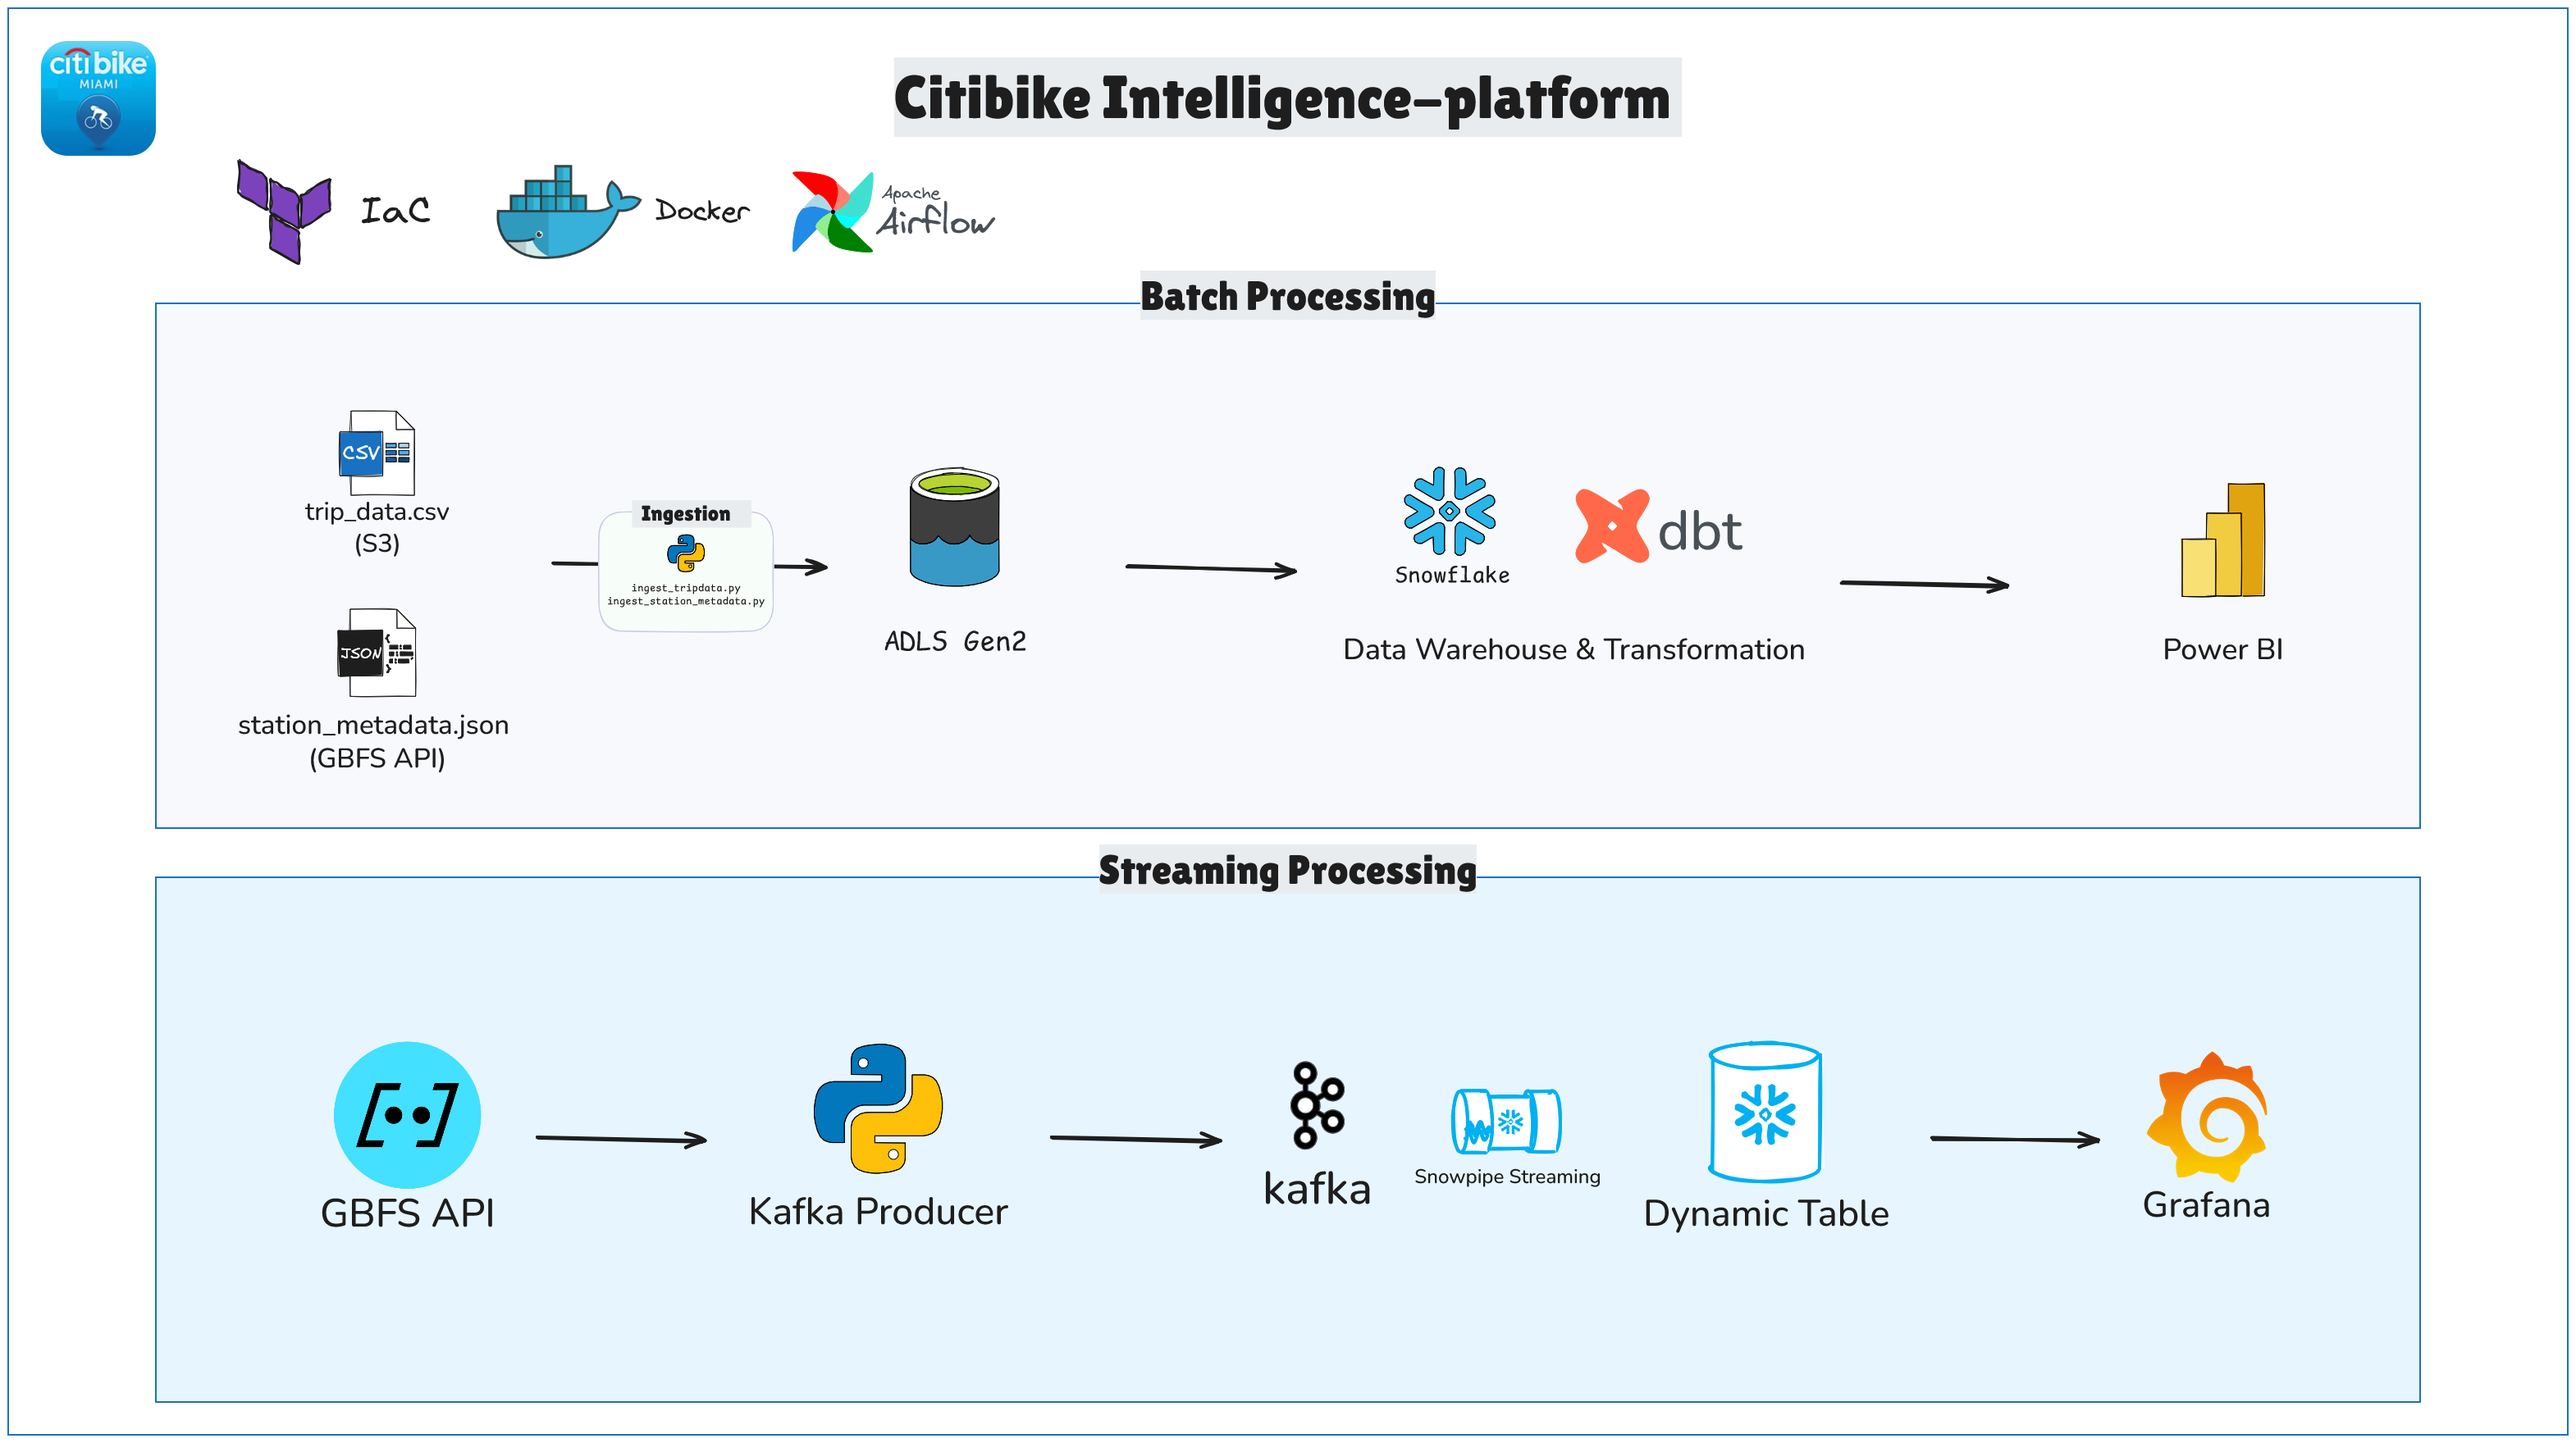
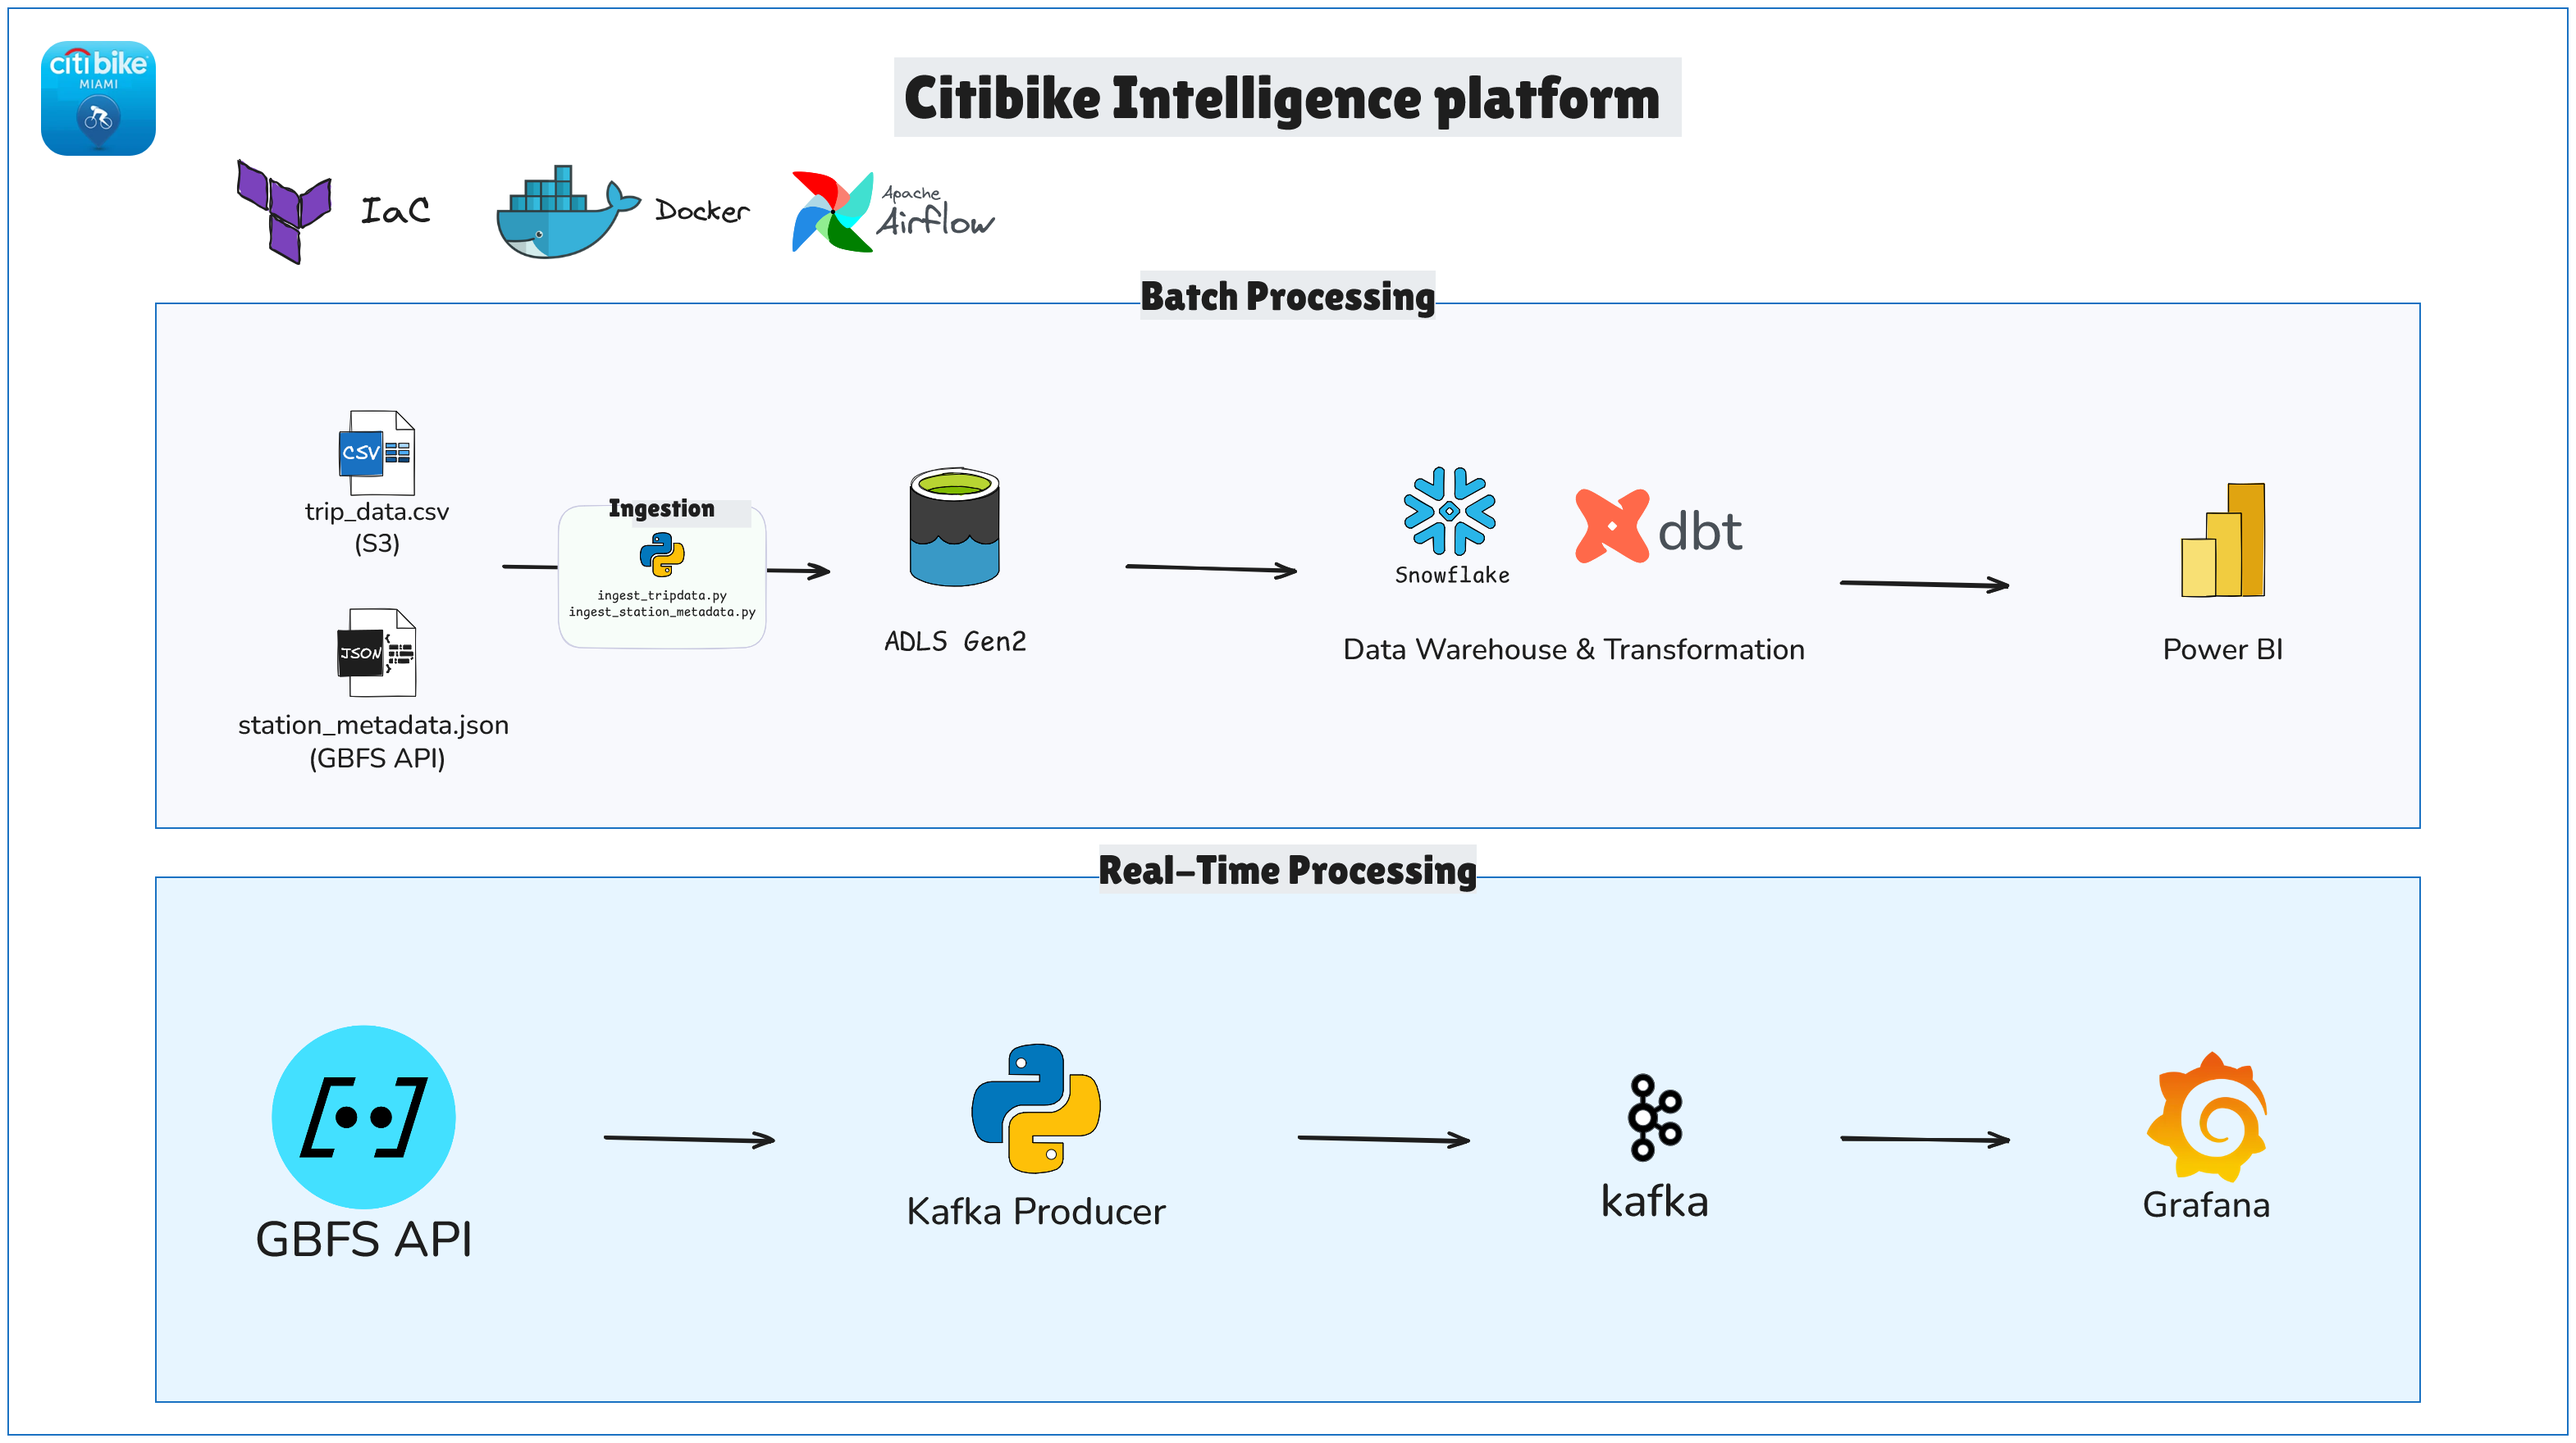
Add Dockerfile, docker-compose.yml, and producer.py for streaming data ingestion

diff --git a/streaming/producer.py b/streaming/producer.py
@@ -1,0 +1,127 @@
+import os
+import requests
+import json
+import time
+import logging
+from confluent_kafka import Producer
+from confluent_kafka.admin import AdminClient, NewTopic
+
+# --- Configuration & Logger Setup ---
+logging.basicConfig(
+    level=logging.INFO,
+    format='%(asctime)s [%(levelname)s] %(message)s',
+    datefmt='%Y-%m-%d %H:%M:%S'
+)
+logger = logging.getLogger(__name__)
+
+kafka_broker = os.getenv('KAFKA_BROKER', 'localhost:9092')
+
+# Kafka Configuration
+conf = {
+    'bootstrap.servers': kafka_broker,
+    'api.version.request': True
+}
+
+TOPIC_NAME = "citibike_status"
+STATUS_URL = "https://gbfs.citibikenyc.com/gbfs/en/station_status.json"
+INFO_URL = "https://gbfs.citibikenyc.com/gbfs/en/station_information.json"
+
+# --- Admin Client for Topic Creation/Config ---
+def ensure_compacted_topic():
+    admin_client = AdminClient(conf)
+    topic_config = {
+        'cleanup.policy': 'compact',
+        'delete.retention.ms': '100',  # Faster cleanup for records marked for deletion
+        'segment.ms': '600000'         # Roll segments every 10 mins to trigger compaction sooner
+    }
+    
+    new_topic = NewTopic(
+        TOPIC_NAME, 
+        num_partitions=1, 
+        replication_factor=1, 
+        config=topic_config
+    )
+
+    fs = admin_client.create_topics([new_topic])
+    for topic, f in fs.items():
+        try:
+            f.result()  # The result itself is None
+            logger.info(f"Topic {topic} created with cleanup.policy=compact")
+        except Exception as e:
+            if "already exists" in str(e):
+                logger.info(f"Topic {topic} already exists. Ensure cleanup.policy is set manually if needed.")
+            else:
+                logger.error(f"Failed to create topic {topic}: {e}")
+
+try:
+    ensure_compacted_topic()
+    producer = Producer(conf)
+except Exception as e:
+    logger.critical(f"Initialization failed: {e}")
+    raise
+
+def delivery_report(err, msg):
+    """ Callback for message delivery results """
+    if err is not None:
+        logger.error(f"Message delivery failed: {err}")
+    else:
+        logger.debug(f"Message delivered to {msg.topic()} [{msg.partition()}]")
+
+def fetch_data():
+    logger.info("Starting new data ingestion cycle...")
+    
+    try:
+        # Fetch Station Information (Static Data)
+        info_resp = requests.get(INFO_URL, timeout=10)
+        info_resp.raise_for_status()
+        stations_info = {s['station_id']: s for s in info_resp.json()['data']['stations']}
+        logger.info(f"Successfully fetched information for {len(stations_info)} stations.")
+
+        # Fetch Station Status (Real-time Data)
+        status_resp = requests.get(STATUS_URL, timeout=10)
+        status_resp.raise_for_status()
+        stations_status = status_resp.json()['data']['stations']
+        
+        logger.info(f"Processing real-time status for {len(stations_status)} stations.")
+
+        produced_count = 0
+        for status in stations_status:
+            s_id = status['station_id']
+            
+            if s_id in stations_info:
+                status['lat'] = stations_info[s_id]['lat']
+                status['lon'] = stations_info[s_id]['lon']
+                status['name'] = stations_info[s_id]['name']
+                
+                # Stream to Kafka with MESSAGE KEY
+                try:
+                    producer.produce(
+                        TOPIC_NAME, 
+                        key=str(s_id),  # REQUIRED FOR COMPACTION
+                        value=json.dumps(status).encode('utf-8'),
+                        callback=delivery_report
+                    )
+                    produced_count += 1
+                except BufferError:
+                    logger.warning("Local producer queue is full, waiting...")
+                    producer.poll(0.1)
+
+        producer.flush()
+        logger.info(f"Successfully streamed {produced_count} enriched records to topic: {TOPIC_NAME}")
+
+    except requests.exceptions.RequestException as re:
+        logger.error(f"Network error while fetching data: {re}")
+    except Exception as e:
+        logger.exception(f"Unexpected error during data processing: {e}")
+
+if __name__ == "__main__":
+    logger.info("CitiBike Data Producer service started.")
+    try:
+        while True:
+            fetch_data()
+            logger.info("Cycle complete. Sleeping for 60 seconds...")
+            time.sleep(60)
+    except KeyboardInterrupt:
+        logger.info("Service interrupted by user. Shutting down...")
+    finally:
+        producer.flush()
